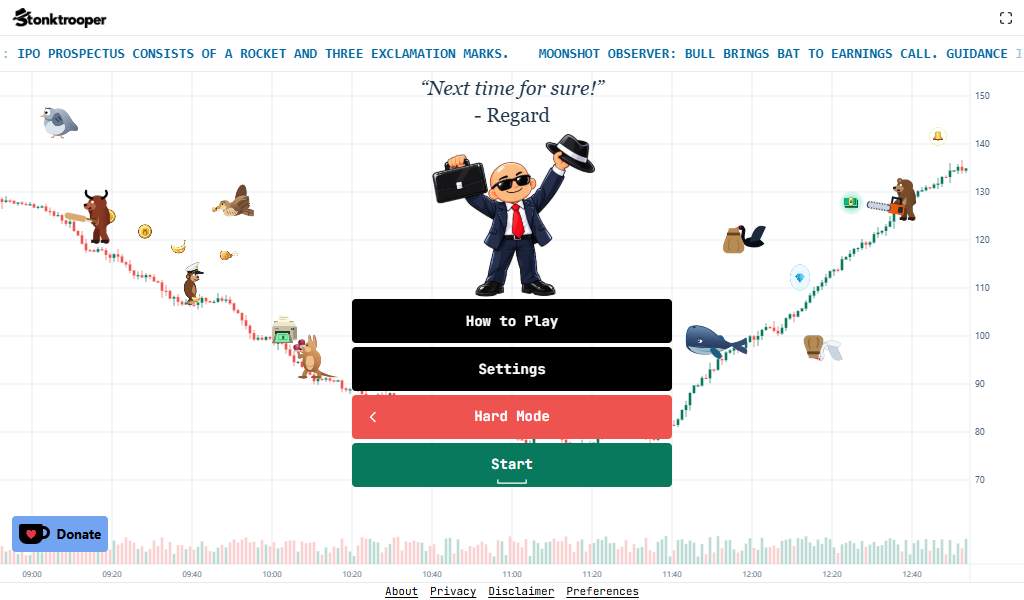
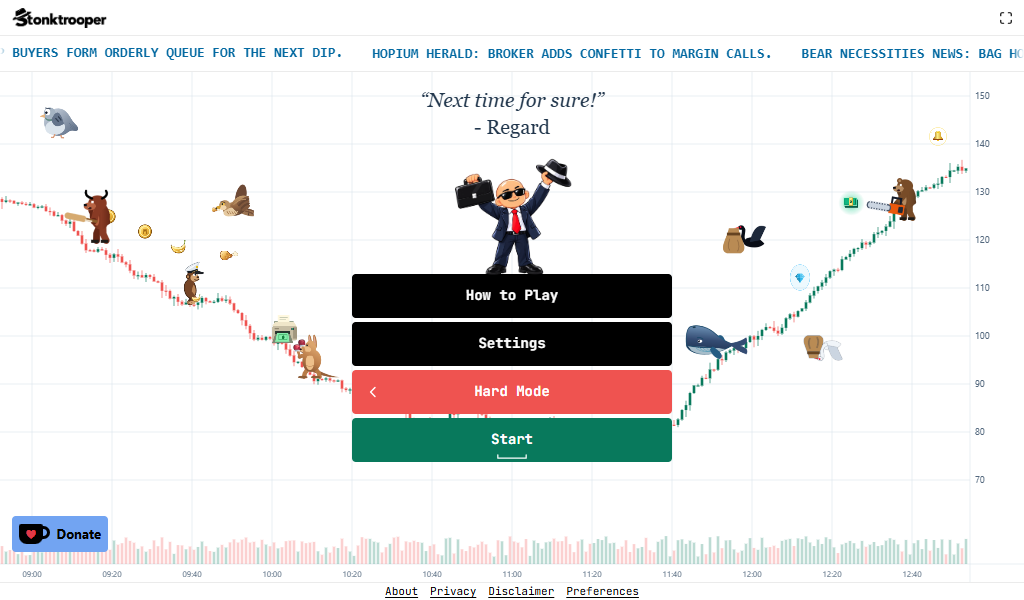
Refine landing and share artwork styling
Compact desktop hero artwork, adjust share-card typography and theme-specific score colors, and update the light-theme share button. Refresh artwork layout checks and visual-review screenshots.

Changed region(s): [[0.0, 0.06, 1.0, 0.66], [0.3438, 0.69, 0.6562, 0.81]]

diff --git a/src/shareCard.ts b/src/shareCard.ts
@@ -26,7 +26,7 @@ export function drawShareCard(ctx: CanvasRenderingContext2D, score: number, back
   ctx.shadowColor = 'rgba(0, 0, 0, 0.8)';
   ctx.shadowBlur = 12;
   ctx.fillStyle = '#f8fafc';
-  ctx.font = `700 ${28 * artworkScale}px "Space Grotesk", sans-serif`;
+  ctx.font = `700 ${32 * artworkScale}px "Space Grotesk", sans-serif`;
   ctx.fillText('BEST SCORE', centerX, height * (theme === 'dark' ? 0.405 : 0.414));
 
   const fullScore = formatShareScore(score);
@@ -34,11 +34,11 @@ export function drawShareCard(ctx: CanvasRenderingContext2D, score: number, back
   // for extreme values while leaving the full score in the accessible label/link.
   const value = fullScore.length > 24 ? Math.max(0, score).toExponential(3) : fullScore;
   const maxWidth = width * 0.34;
-  const baseFontSize = 86 * artworkScale;
+  const baseFontSize = 72 * artworkScale;
   ctx.font = `700 ${baseFontSize}px "Space Grotesk", sans-serif`;
   const fontSize = Math.max(32 * artworkScale, Math.min(baseFontSize, baseFontSize * maxWidth / Math.max(1, ctx.measureText(value).width)));
   ctx.font = `700 ${fontSize}px "Space Grotesk", sans-serif`;
-  ctx.fillStyle = '#54d3ac';
+  ctx.fillStyle = theme === 'dark' ? '#08795c' : '#54d3ac';
   ctx.fillText(value, centerX, height * (theme === 'dark' ? 0.462 : 0.472), maxWidth);
   ctx.restore();
 }

diff --git a/src/index.css b/src/index.css
@@ -70,7 +70,7 @@ html .game-app .mechanics-guide .mechanics-guide-description {
   display: flex;
   flex-direction: column;
   overflow: hidden;
-  border: 1px solid var(--text);
+  border: 0;
   border-radius: var(--ui-radius);
   background: var(--panel);
   color: var(--text);
@@ -756,6 +756,11 @@ html[data-theme="light"] .game-app .game-result-over .game-result-summary {
   background: #38bdf8 !important;
   color: #ffffff !important;
   border-color: #38bdf8 !important;
+}
+
+html[data-theme="light"] .game-result-over .share-dd-open {
+  background: #0369a1 !important;
+  border-color: #0369a1 !important;
 }
 
 .how-to-grid > div {
@@ -3731,8 +3736,8 @@ html .game-app .landing-menu-panel > .landing-menu-actions {
 
 @media (pointer: fine) {
   html .game-app .landing-menu-panel > .landing-menu-actions {
-    --menu-hero-width: clamp(110px, 28dvh, 210px);
-    padding-top: var(--menu-hero-width);
+    --menu-hero-width: clamp(90px, 20dvh, 150px);
+    padding-top: calc(var(--menu-hero-width) - 3px);
   }
   .desktop-home-art {
     display: block;

diff --git a/src/LandingScore.tsx b/src/LandingScore.tsx
@@ -72,7 +72,7 @@ export function LandingScore({ score, theme }: { score: number; theme: 'light' |
         ? Math.min((center - p.left) / axis, ((portrait ? p.right : a.left - 8) - center) / (1 - axis))
         : a.left - d.right - 16);
       const ratio = canvas.current ? canvas.current.width / canvas.current.height : 1;
-      const height = Math.min(availableHeight, availableWidth / ratio, mobile ? 320 : 480) * (mobile && portrait ? 0.9 : 1);
+      const height = Math.min(availableHeight, availableWidth / ratio, mobile ? 320 : 360) * (mobile && portrait ? 0.9 : 1);
       const left = mobile ? center - height * ratio * axis : d.right + 8;
       element.style.left = `${left}px`;
       element.style.top = `${bottom - height * (mobile ? artworkAnchor.current.baseline : 1)}px`;

diff --git a/src/CandleGame.tsx b/src/CandleGame.tsx
@@ -3124,9 +3124,9 @@ export const CandleGame: React.FC<CandleGameProps> = ({
         const metrics = ctx.measureText(label);
         const x = paddingX + metrics.actualBoundingBoxLeft;
         const y = TAPE_HEIGHT + scoreTopInset.current / scoreScaleY + metrics.actualBoundingBoxAscent;
-        ctx.fillStyle = theme === 'light' ? '#08795c' : '#54d3ac';
+        ctx.fillStyle = theme === 'light' ? '#54d3ac' : '#08795c';
         ctx.fillText(label, x, y);
-        ctx.fillStyle = theme === 'light' ? '#08795c' : '#54d3ac';
+        ctx.fillStyle = theme === 'light' ? '#54d3ac' : '#08795c';
         ctx.fillText(value, x + ctx.measureText(label).width, y);
         ctx.restore();
       }
